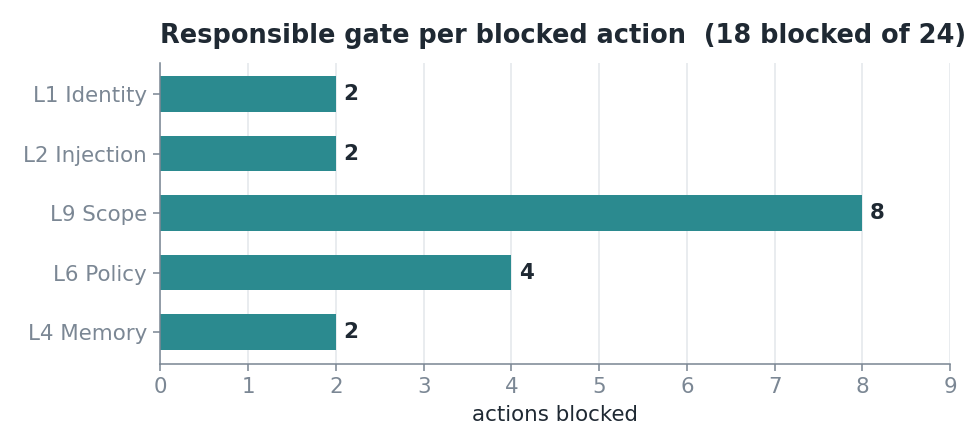
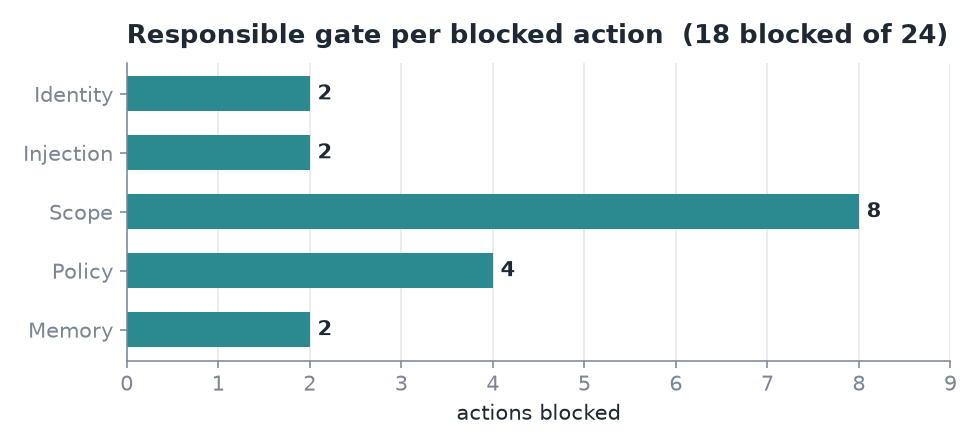
docs: update figures

diff --git a/study/figures.py b/study/figures.py
@@ -27,8 +27,8 @@ plt.rcParams.update({
 })
 
 LAYER_NAMES = {
-    "identity": "L1 Identity", "injection": "L2 Injection",
-    "scope": "L9 Scope", "policy": "L6 Policy", "memory": "L4 Memory",
+    "identity": "Identity", "injection": "Injection",
+    "scope": "Scope", "policy": "Policy", "memory": "Memory",
 }
 
 # ── Fig 1: which gate caught what ─────────────────────────────────────────────
